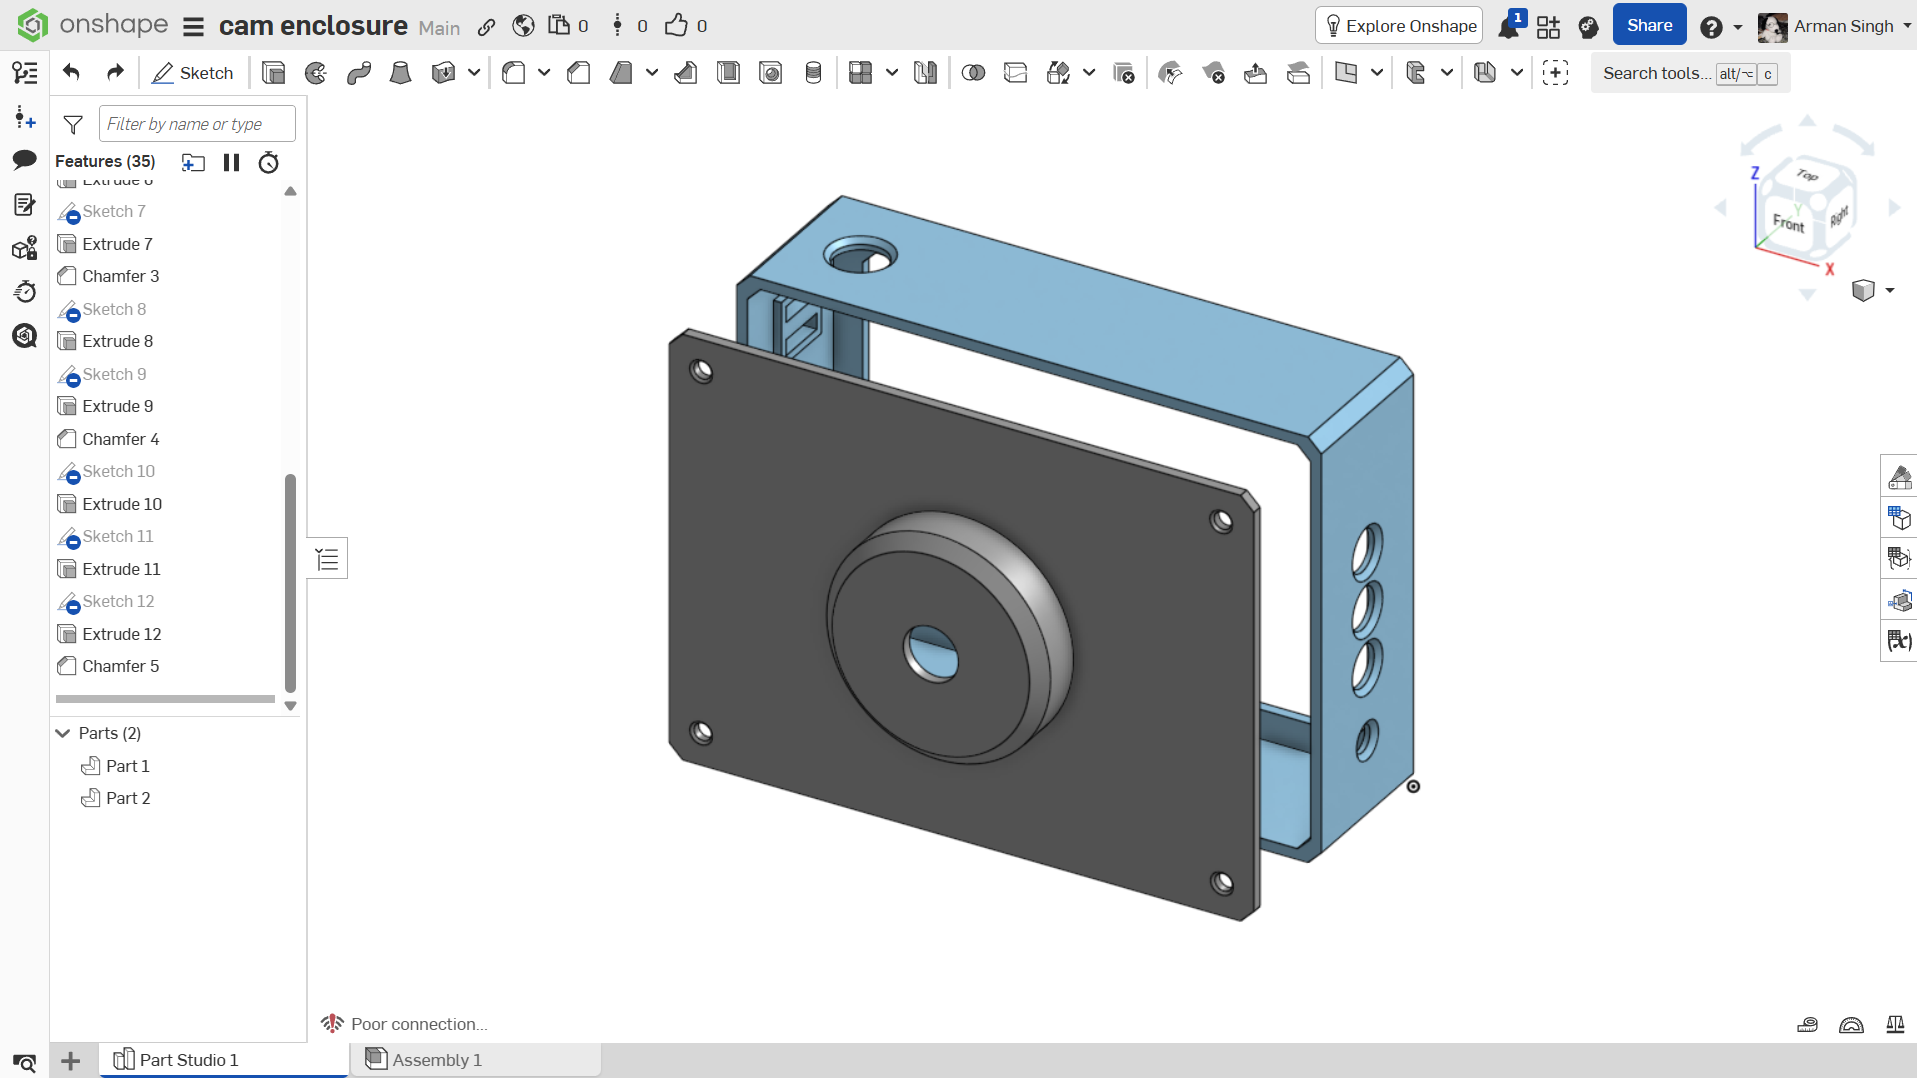
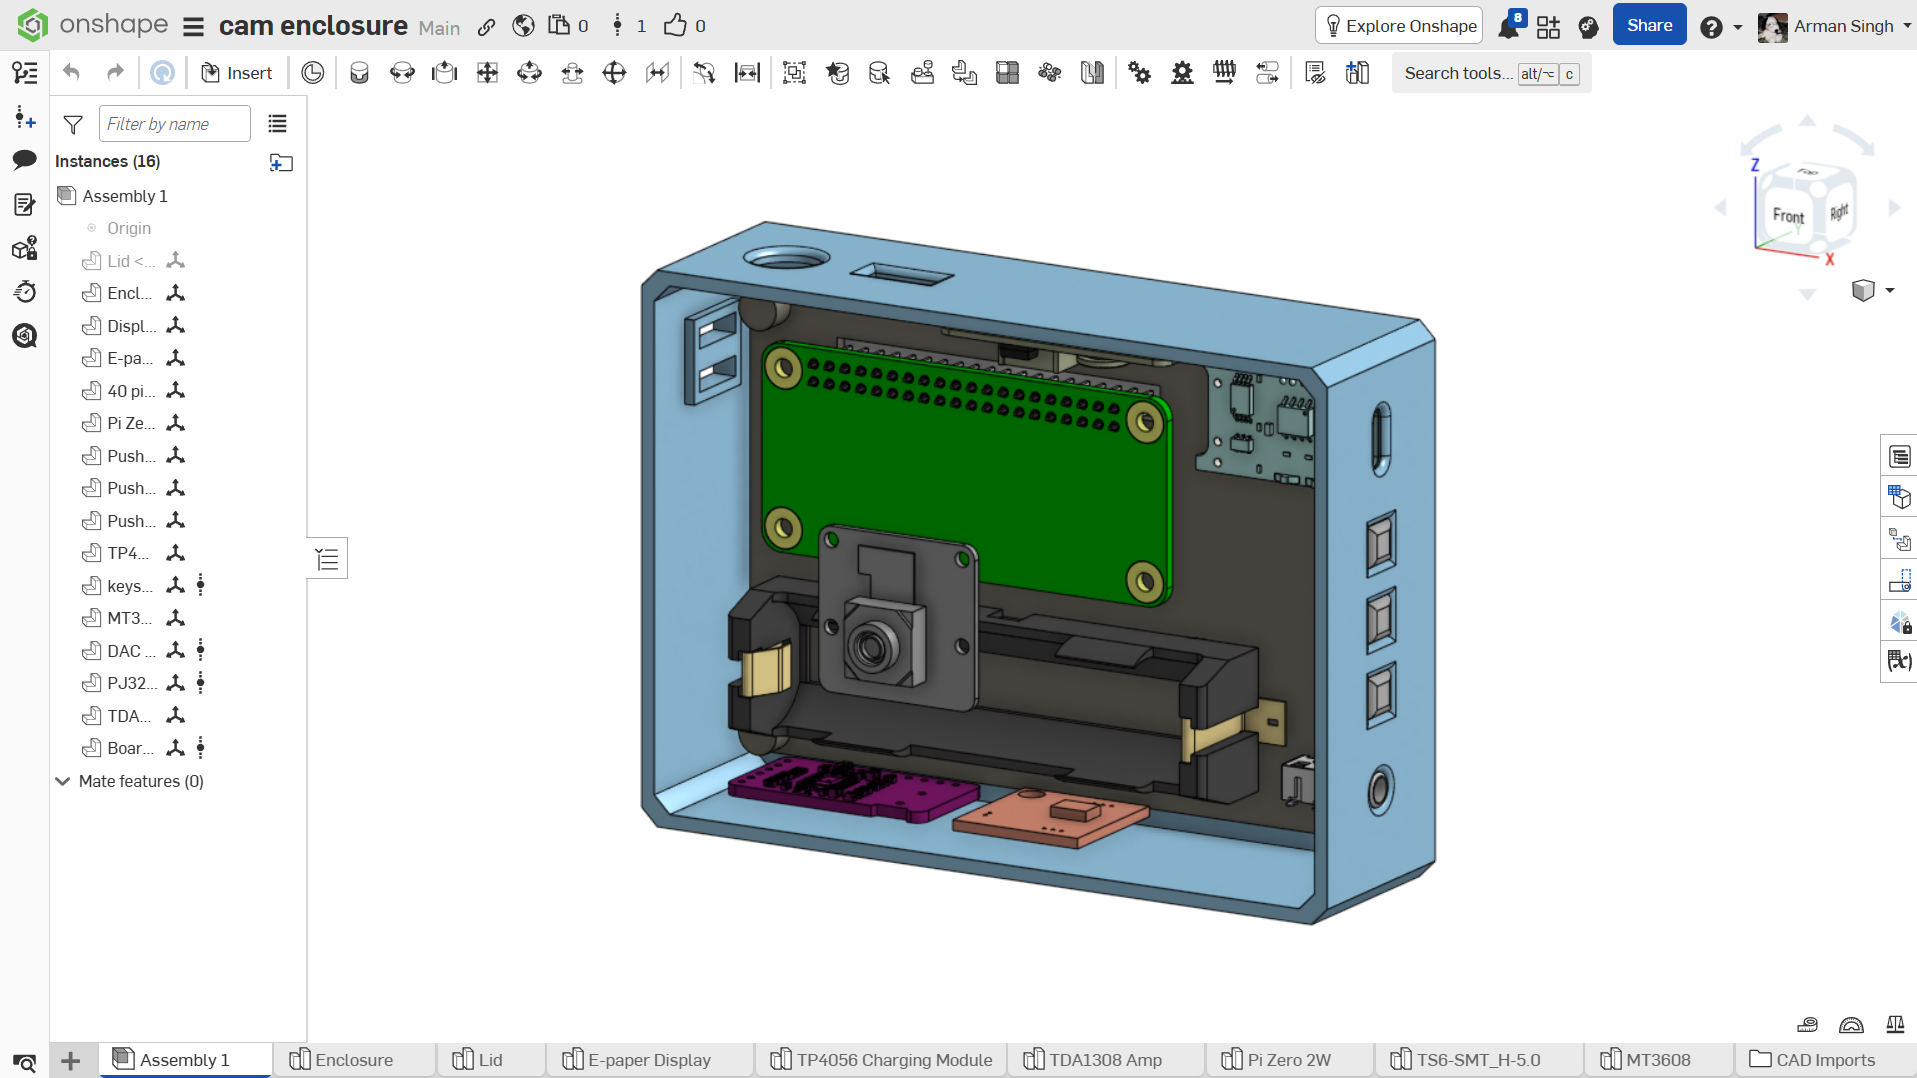
docs: update README

diff --git a/README.md b/README.md
@@ -1,34 +1,52 @@
 # pi-camera-proj
-A camera that only remembers one photo (on screen, at least).
+a camera that only remembers one photo (on screen at least), with an mp3 player crammed in too (cuz why not)
 
-## What it is (more like "what it will be")
-No gallery, no scrolling, the e-paper only ever shows your most recent shot. Every photo we take gets saved to storage too (and backs up to your laptop/phone when connected), so nothing's lost and the display just stays showing the last pic we took.
+## what is it
+wanted a digicam and an mp3 player for a while now, then it hit me that i could just build both myself. was gonna keep it simple but the idea kept snowballing, so now it's one box doing both jobs. 
+no gallery, no scrolling, the e-paper just shows your last shot and it stays there forever until next shot. every pic still gets saved properly though, and it wifi backs up to your laptop/phone in the background the second you take it, no cable needed, nothing ever actually gets lost even though the screen only shows the one pic (you can change which pic shows from the phone/laptop dashboard too).
 
-Made it from scratch: camera, e-paper driver, dithering, and (because why not) an mp3 player crammed into the same box. 
 
-## Electronics
+### why pi zero 2 w and not esp32
+this is the one part i'm not swapping for something cheaper, and it's not because the pi's just convenient. everything else in this build already got stripped down to bare parts (more on that below), but the pi actually earns its spot because this thing needs to do a bunch of stuff at the same time that a microcontroller straight up can't
 
-| Part |
-|---|
+1. **camera res**: cam module 3 does 13MP, best an esp32 can pair with is like 5MP. that's the diff between a photo worth keeping and a blurry mess.
+2. **ram for the e-paper buffer**: the spectra 6 display needs a chunky memory buffer just to process one image before it even renders. an esp32 doesn't have room for that, especially with music also playing.
+3. **actual multitasking**: taking a high res photo, dithering + rendering it to e-paper, pushing it out over wifi, decoding mp3s, and checking 4 buttons, all at once. that's real OS scheduling, a microcontroller just chokes once audio and image stuff overlap.
+4. **networking + storage**: wifi backup plus a whole photo + music library on one sd card is nothing on linux. on a microcontroller i'd be writing wifi stack and flash/FAT handling from scratch for a worse result.
+
+power and audio though, those i did rip out the premade modules for and build myself, that's where the actual cost got cut.
+
+## electronics
+
+| Parts |
+| --- |
 | Waveshare 4inch e-Paper HAT+ (Spectra 6, color) |
 | Raspberry Pi Zero 2 W |
 | Raspberry Pi Camera Module 3 |
-| PiSugar 3 |
-| PCM5102A I2S DAC |
-| MicroSD card |
-| Buttons x4 |
-| M3 screws |
+| Raspberry Pi Zero CSI Camera Cable |
+| 18650 Li-ion Cell (Molicel INR-18650-P30B) |
+| 18650 Cell Holder |
+| TP4056 Charging Module |
+| MT3608 Step Up Module |
+| Latching Power Switch (SPST) |
+| PCM5102A I2S DAC Module |
+| TDA1308 Amplifier Module |
+| MicroSD Card (32GB) |
+| Buttons x4 (Shutter & Music Controls) |
+| Hookup Wire & Jumper Cables |
+| M3 Screws |
 
-## Wiring
+## wiring
 
 ![Wiring Schematic](./assets/wiring.png)
 
-## Enclosure
+## enclosure
+[---------------CAD MODEL HERE---------------](https://cad.onshape.com/documents/ab0129b0ffcb553a41fd978a/w/1af2f7c9bc0d2e8a4e4feb4b/e/cccda6b71561c05696152eb3?renderMode=0&uiState=6a9196cf4e41288969f92849)
 
 ![Enclosure Model](./assets/enclosure.png)
 
-## Status
-schematic done, enclosure in progress, nothing built yet
+## status
+schematic and enclosure done, did not start building yet
 
-## Credits
-Not a clone of [reFrame](https://github.com/kaloyaan/reframe), though that's what got me thinking about this
+## credits
+not a clone of [reFrame](https://github.com/kaloyaan/reframe), though that's what got me thinking about this
